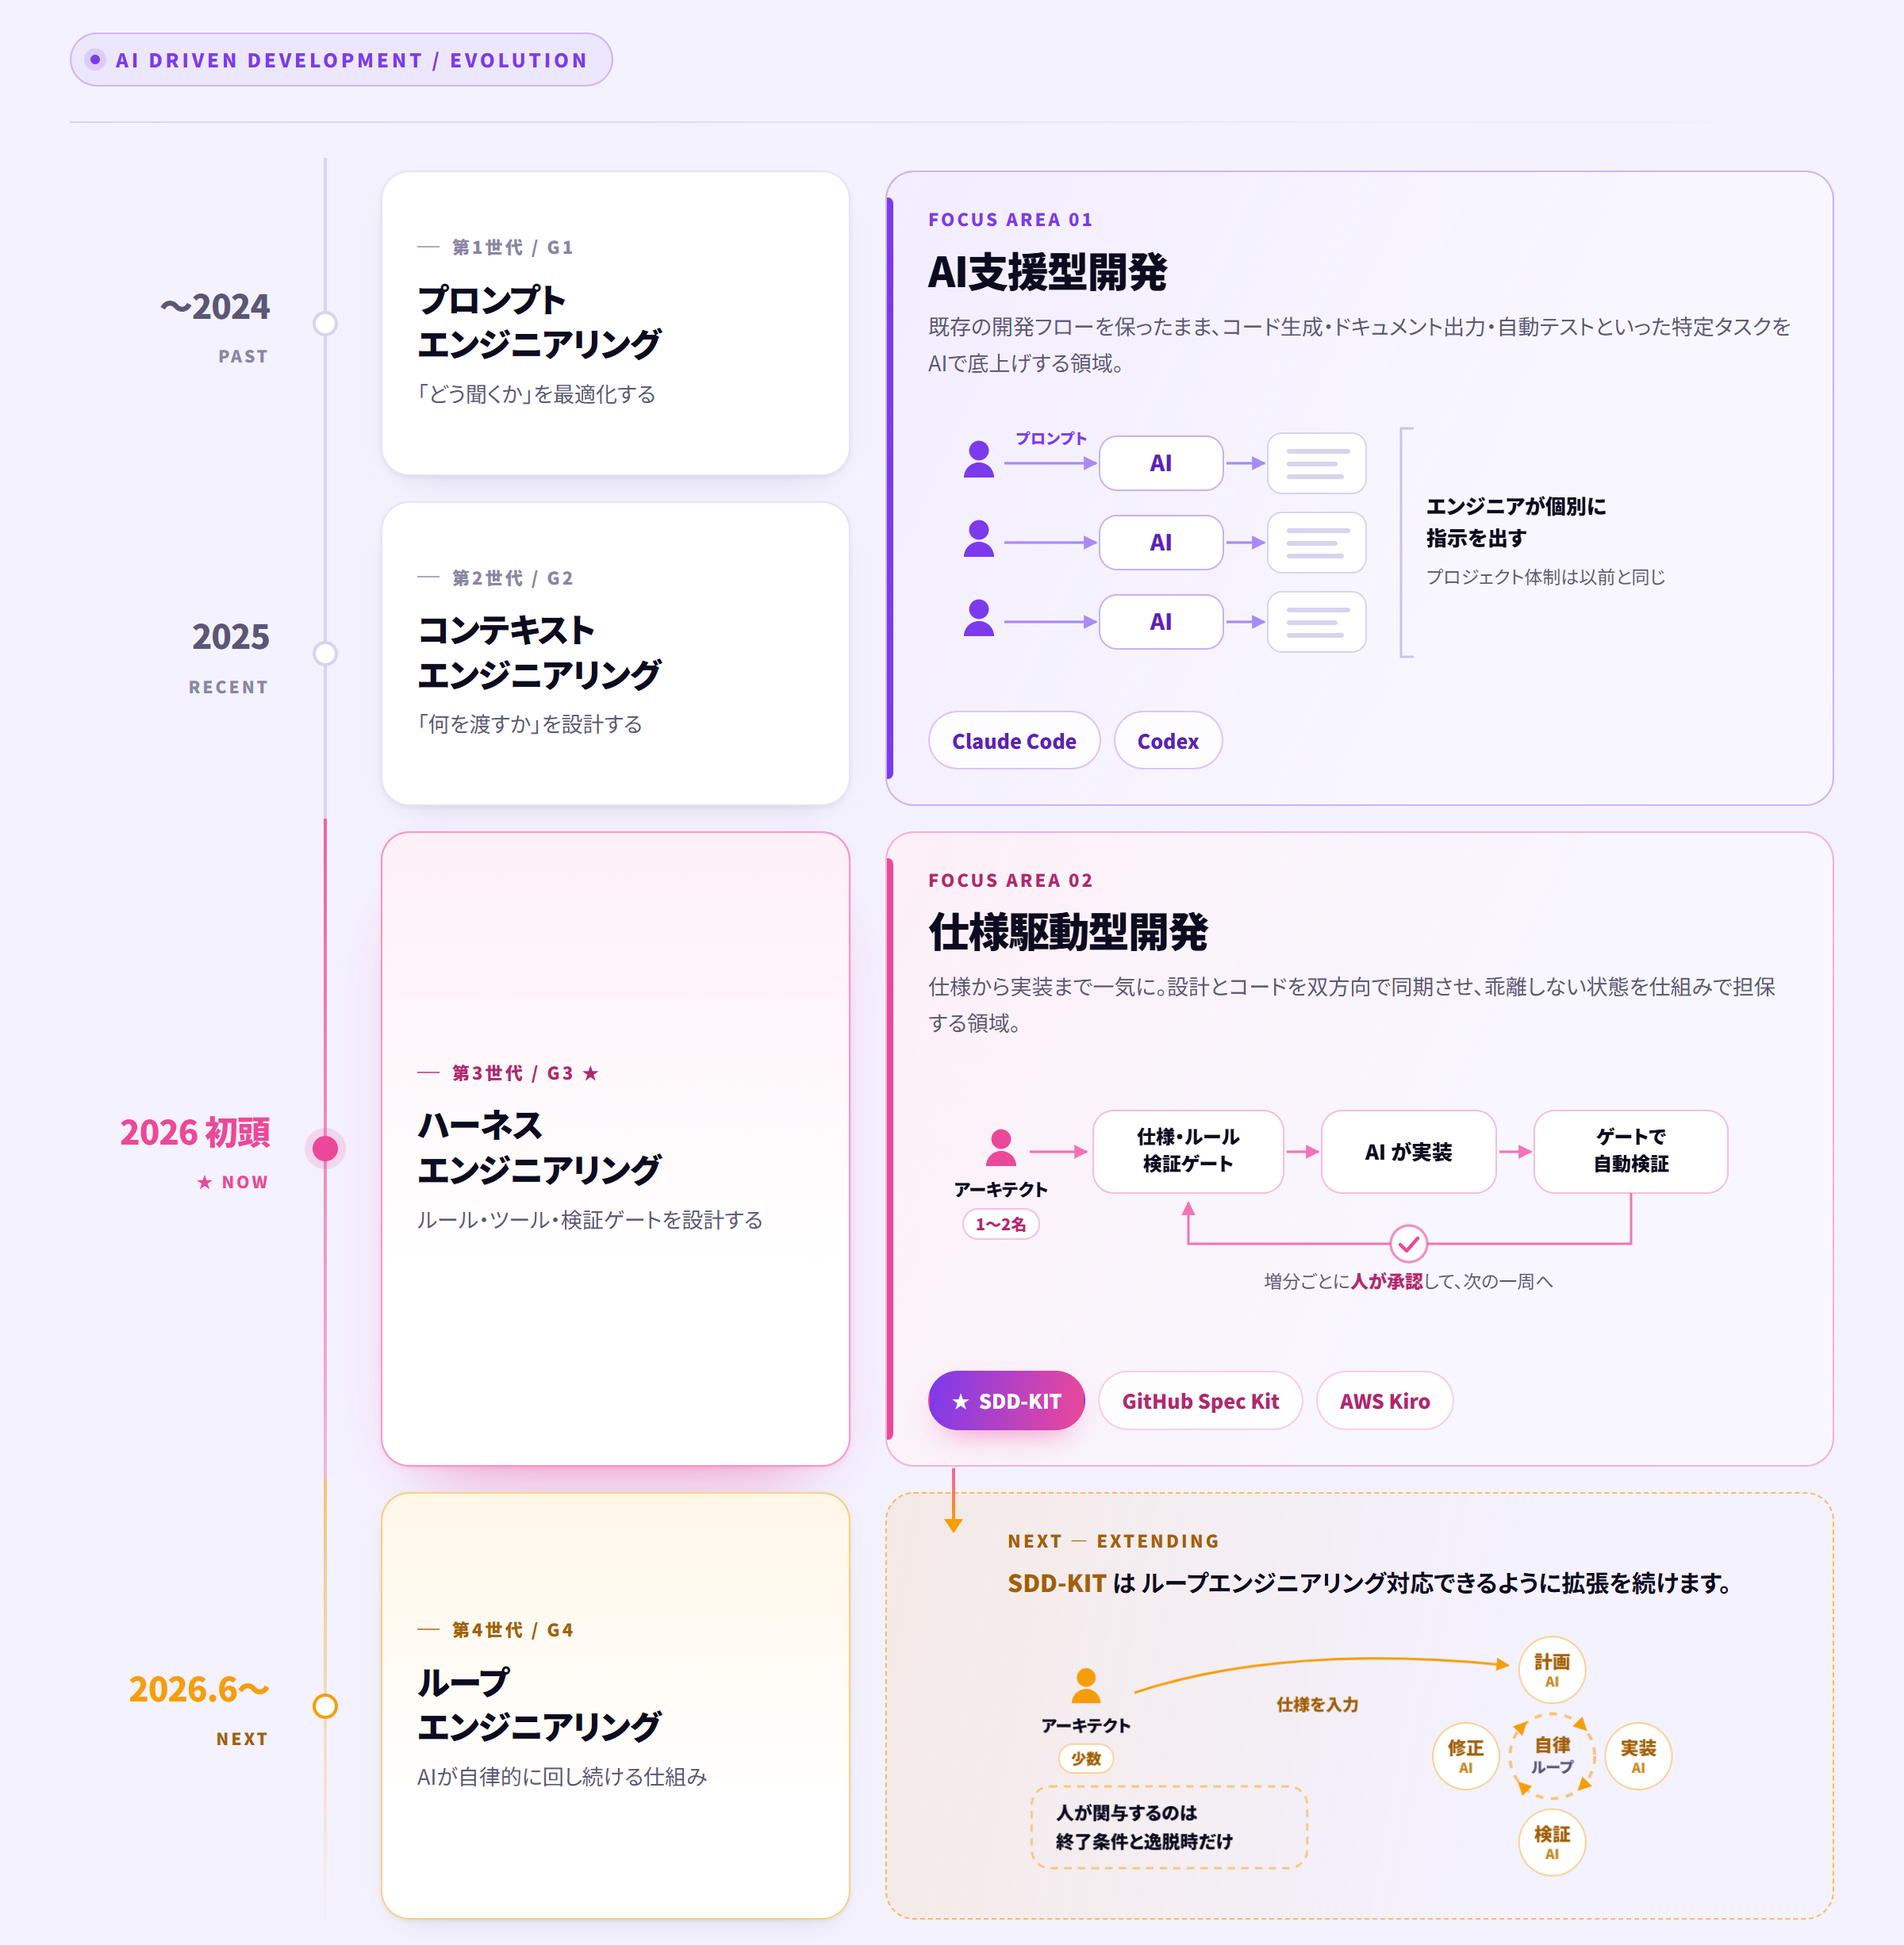
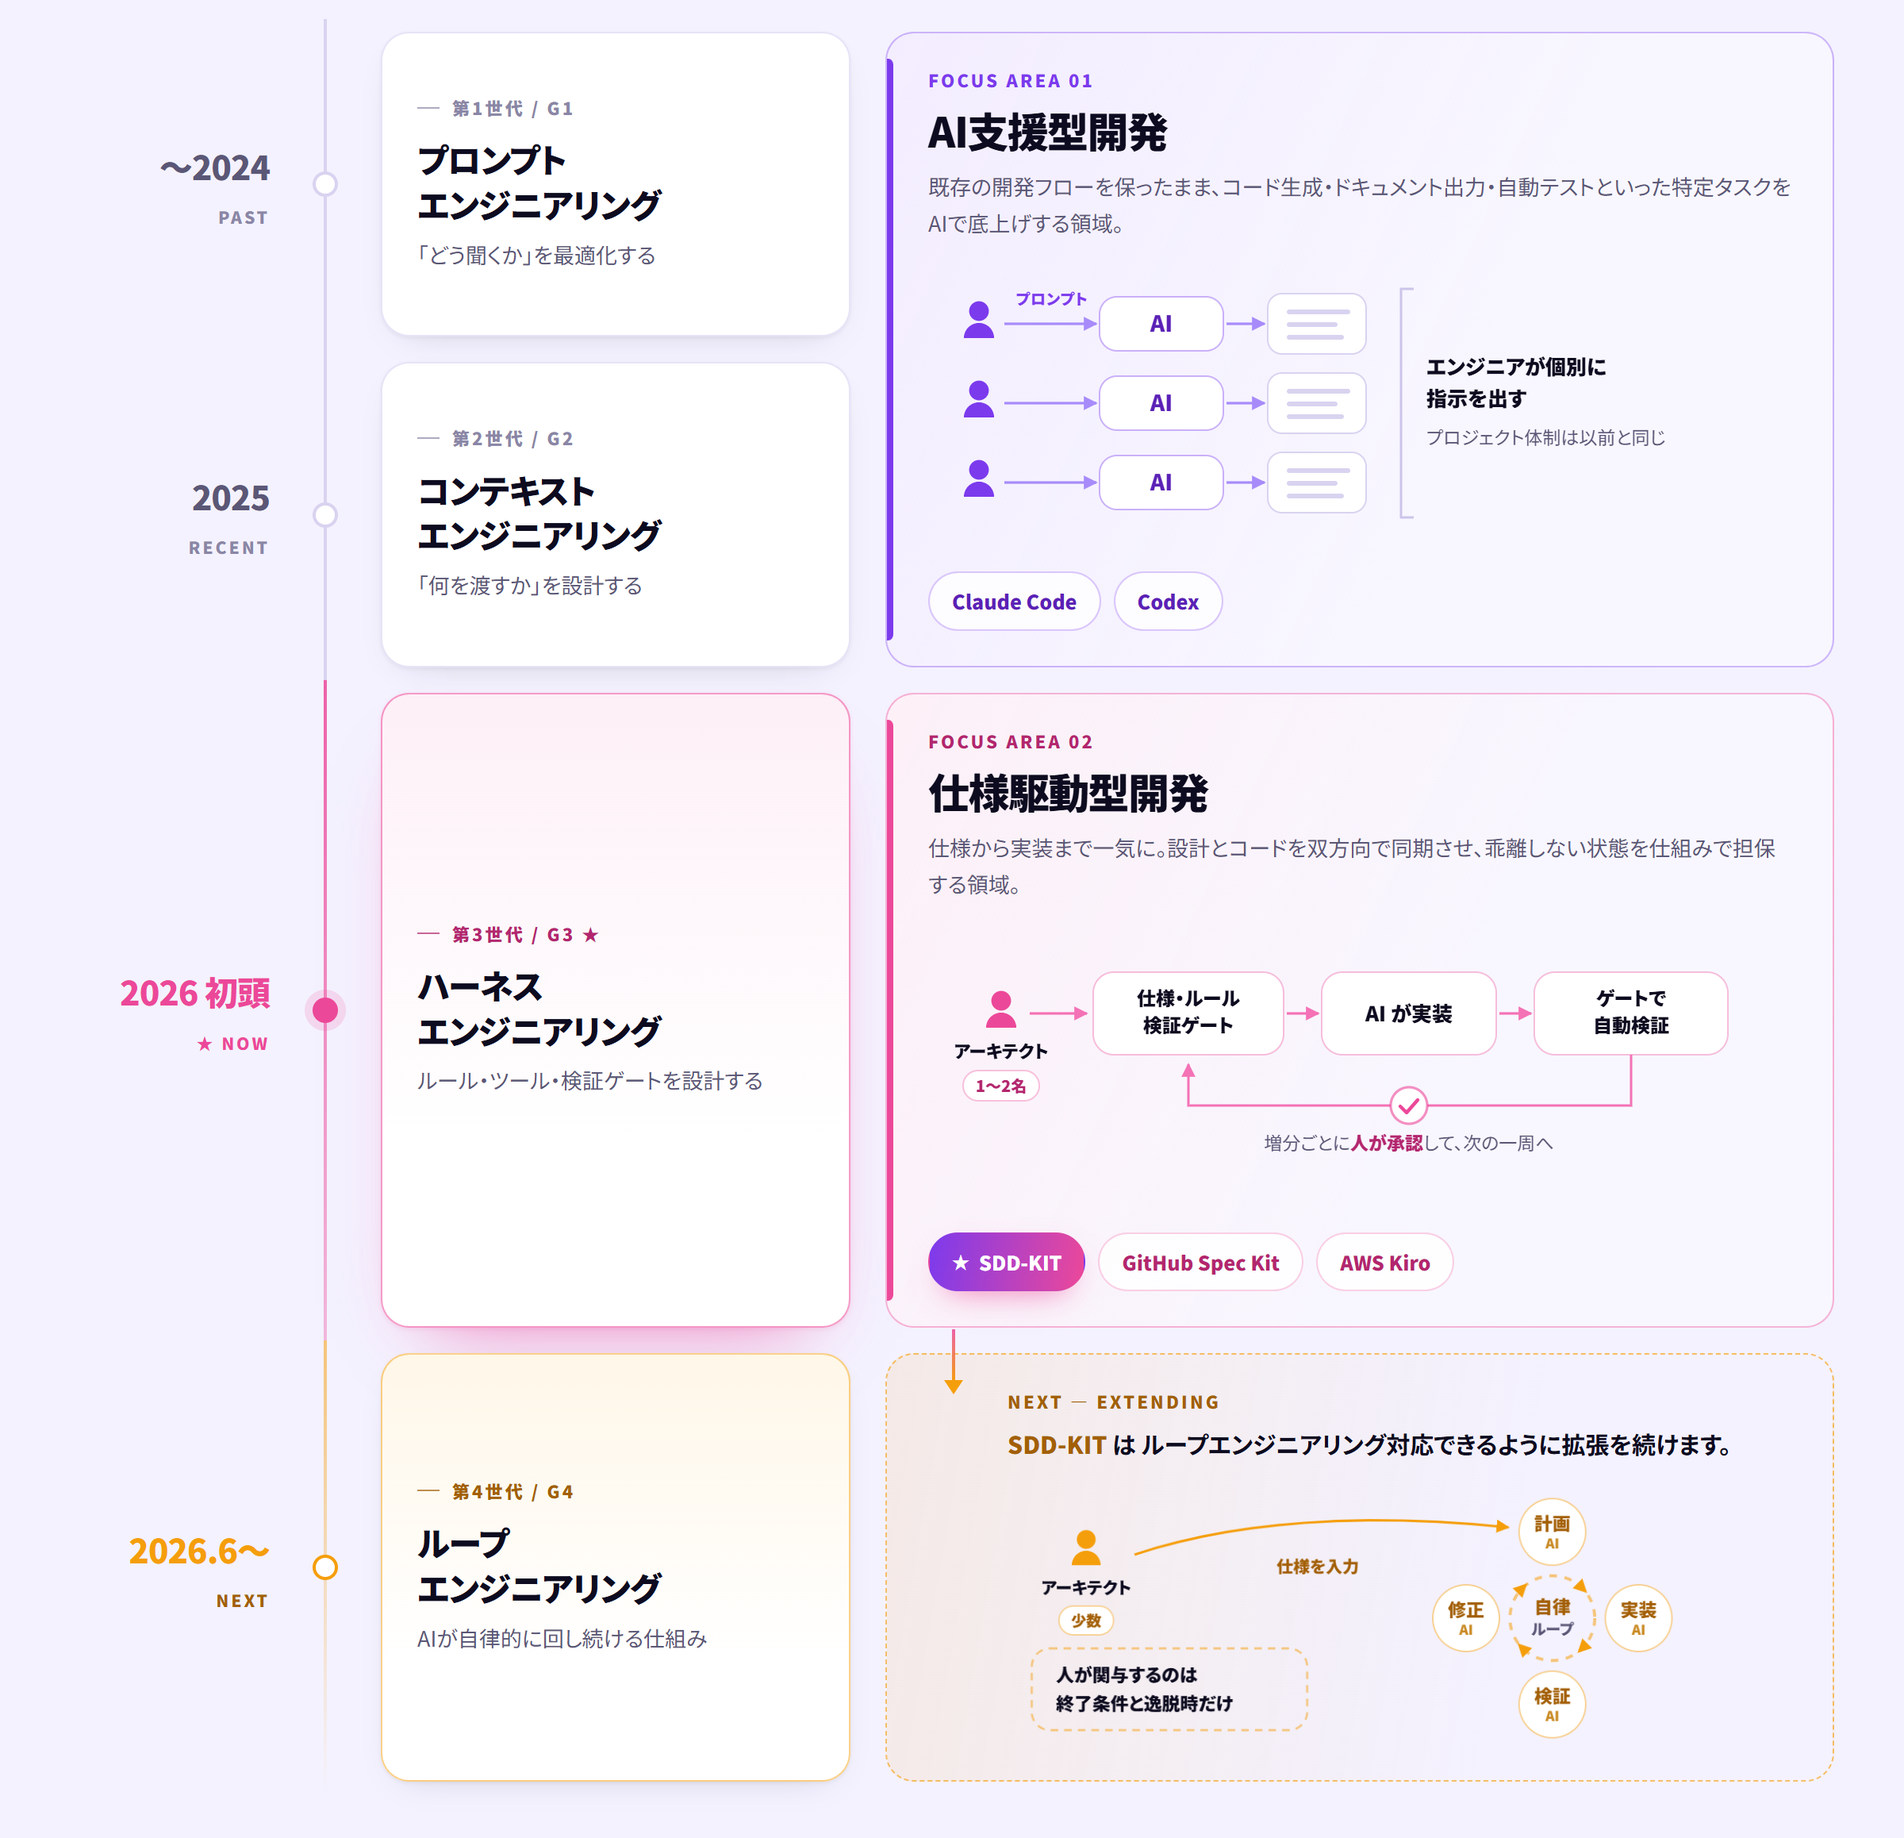
commit

diff --git a/docs/plan-5/timeline.html b/docs/plan-5/timeline.html
@@ -49,44 +49,8 @@
 
   .canvas{width:100%; max-width:1112px}
 
-  /* ---------- ヘッダー ---------- */
-  .kicker{
-    display:inline-flex; align-items:center; gap:10px;
-    font-size:12px; font-weight:900; letter-spacing:.16em;
-    color:var(--p1);
-    border:1px solid rgba(124,58,237,.28);
-    background:rgba(124,58,237,.06);
-    border-radius:999px;
-    padding:6px 14px 6px 12px;
-  }
-  .kicker::before{
-    content:""; width:6px; height:6px; border-radius:50%;
-    background:var(--p1); box-shadow:0 0 0 4px rgba(124,58,237,.15);
-  }
-
-  h1{
-    margin-top:18px;
-    font-size:38px; font-weight:900; letter-spacing:-1px; line-height:1.22;
-  }
-  h1 .hl{
-    color:var(--p2);
-    background:linear-gradient(180deg,transparent 64%,rgba(236,72,153,.20) 64%);
-    padding:0 .08em;
-  }
-  .lede{
-    margin-top:12px; max-width:880px;
-    color:var(--muted); font-size:15px;
-  }
-  .lede b{color:var(--ink); font-weight:800}
-
-  .rule{
-    height:1px; margin:22px 0 0;
-    background:linear-gradient(90deg,var(--line2),rgba(217,211,240,0));
-  }
-
   /* ---------- タイムライン本体 ---------- */
   .tl{
-    margin-top:30px;
     display:grid;
     grid-template-columns:126px 26px 296px 1fr;
     column-gap:22px;
@@ -226,7 +190,6 @@
   /* ---------- レスポンシブ（ブラウザ直接閲覧用。PNG化は1200px幅） ---------- */
   @media (max-width:1000px){
     body{padding:28px 20px 32px}
-    h1{font-size:29px}
     .tl{grid-template-columns:1fr; row-gap:14px}
     .rail{display:none}
     .when{text-align:left; flex-direction:row; justify-content:flex-start; align-items:baseline; gap:10px}
@@ -240,13 +203,8 @@
 <body>
 <main class="canvas">
 
-  <!-- ===== ヘッダー =====
-       見出し・リード文は掲載先ページ（plan-5/index.html の #evolution）が持つため、
-       図版側ではラベルのみを表示する -->
-  <header>
-    <span class="kicker">AI DRIVEN DEVELOPMENT / EVOLUTION</span>
-    <div class="rule"></div>
-  </header>
+  <!-- 見出し・リード文・ラベルは掲載先ページ（plan-5/index.html の #evolution）が
+       持つため、図版側はタイムライン本体のみ -->
 
   <!-- ===== タイムライン ===== -->
   <section class="tl">

diff --git a/docs/plan-5/index.html b/docs/plan-5/index.html
@@ -25,7 +25,7 @@
     <div class="nav-links">
       <a href="#service">領域</a>
       <a href="#tech">AIによる開発</a>
-      <a href="#ai-system">AI搭載システム</a>
+      <a href="#ai-system">AIを搭載するシステム</a>
       <a href="#values">価値観</a>
       <a href="#why">強み</a>
     </div>
@@ -104,7 +104,7 @@
     <figure class="figure figure-flush">
       <!-- 図版の原本: docs/plan-5/timeline.drawio ／ HTML版: docs/plan-5/timeline.html
            caption は図版の導入文のため img より前に置いている -->
-      <figcaption>プロンプト → コンテキスト → ハーネス → ループ。世代ごとに移り変わる主戦場の中で、私たちの2領域がどこを担っているかを整理しました。</figcaption>
+      <figcaption>プロンプト → コンテキスト → ハーネス → ループ。世代ごとに移り変わる主戦場の中で、私たちの活動が何処を担っているかを整理しました。</figcaption>
       <img src="timeline.png" alt="AI開発の4世代（プロンプト／コンテキスト／ハーネス／ループ）と、AI支援型開発・仕様駆動型開発の位置づけを示すタイムライン図。あわせて各領域の体制イメージを図解しており、AI支援型開発ではエンジニアが個別にAIへ指示を出しプロジェクト体制は従来と同じ、仕様駆動型開発では少数のアーキテクトが仕様と検証ゲートを設計し増分ごとに承認して一周する、ループエンジニアリングでは計画・実装・検証・修正のAIが自律的に回り人は終了条件と逸脱時だけ関与する、という違いを示している">
     </figure>
   </div>
